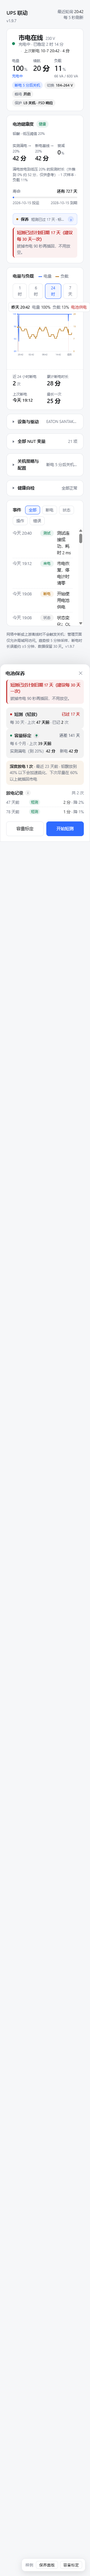
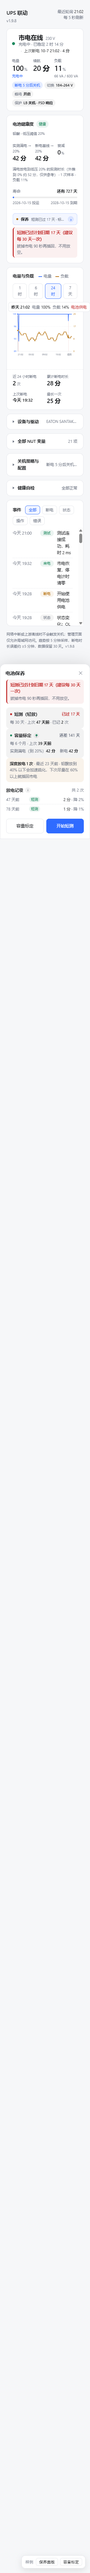
ui: 电池保养面板短测与容量标定之间留出间距 (v1.9.9)

diff --git a/app/public/index.html b/app/public/index.html
@@ -189,7 +189,7 @@ h1{font-size:16px;font-weight:600;margin:0;letter-spacing:-.2px}
 .sheet-bd .alert{margin:0 0 11px}
 @keyframes bpulse{0%,100%{opacity:1}50%{opacity:.35}}
 /* 保养弹窗：每项一块，把「下次该做什么」和「上次做得怎样」合并在一起 */
-.mt{display:grid;gap:8px}
+.mt{display:grid;gap:12px}
 .mt-it{padding:10px 12px 11px;border-radius:var(--r-md);background:var(--fill)}
 .mt-hd{display:flex;align-items:center;gap:7px;font-size:var(--fs-md);font-weight:600;color:var(--text)}
 .mt-hd i{width:6px;height:6px;border-radius:50%;background:var(--ok);flex:0 0 auto}
@@ -206,7 +206,7 @@ h1{font-size:16px;font-weight:600;margin:0;letter-spacing:-.2px}
   color:var(--muted);font-variant-numeric:tabular-nums}
 .mt-cap b{color:var(--text);font-weight:600}
 .mt-cap b.down{color:var(--warn)}
-.mt-note{margin-top:8px;padding:8px 11px;border-radius:var(--r-md);background:var(--warn-fill);
+.mt-note{padding:8px 11px;border-radius:var(--r-md);background:var(--warn-fill);
   font-size:var(--fs-xs);color:var(--muted);line-height:1.6}
 .mt-note b{color:var(--warn)}
 .mt-note .info{vertical-align:0}

diff --git a/app/server.py b/app/server.py
@@ -26,7 +26,7 @@ import traceback
 from http.server import BaseHTTPRequestHandler, ThreadingHTTPServer
 from urllib.parse import parse_qs, urlparse
 
-APP_VERSION = "1.9.8"
+APP_VERSION = "1.9.9"
 PORT = int(os.environ.get("UPSLINK_PORT") or os.environ.get("TRIM_SERVICE_PORT") or "8099")
 DATA_DIR = os.environ.get("TRIM_PKGVAR") or os.environ.get("UPSLINK_DATA") or "/opt/upslink/var"
 CONF_PATH = os.path.join(DATA_DIR, "config.json")

diff --git a/CHANGELOG.md b/CHANGELOG.md
@@ -1,5 +1,13 @@
 # 更新日志
 
+## 1.9.9
+
+电池保养面板里「短测」与「容量标定」两块之间留出 12px 间距（原来 8px 且同底色，贴在一起分不出块）；深度放电提示的额外 margin 移除，统一由同一间距控制。
+
+## 1.9.8
+
+实测续航与容量口径修正：总览卡「↓实测」改为 UPS 自报续航 × (1 − 实测衰减)，短于自报时警告色突出；健康卡实测满电 / 新电基线标注「→ 低压阈值」口径并给外推到 0% 的参考值；实测值改为按样本期平均负载折算、只认完整放电区间，不再随当前负载跳变。
+
 ## 1.9.7
 
 总览卡「续航」的实测小字与电池健康度卡的口径修正。
